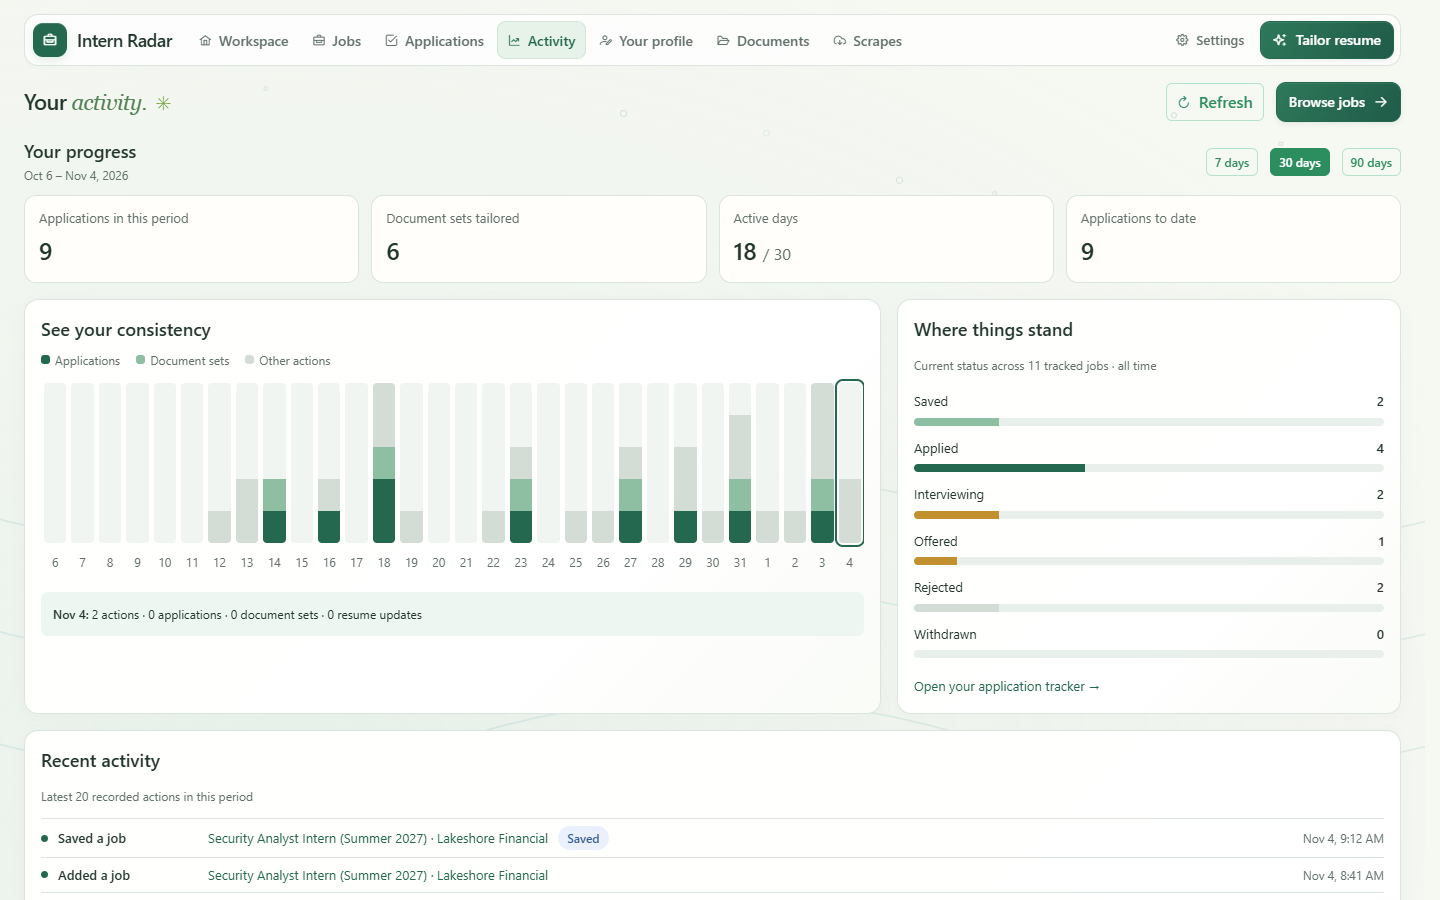
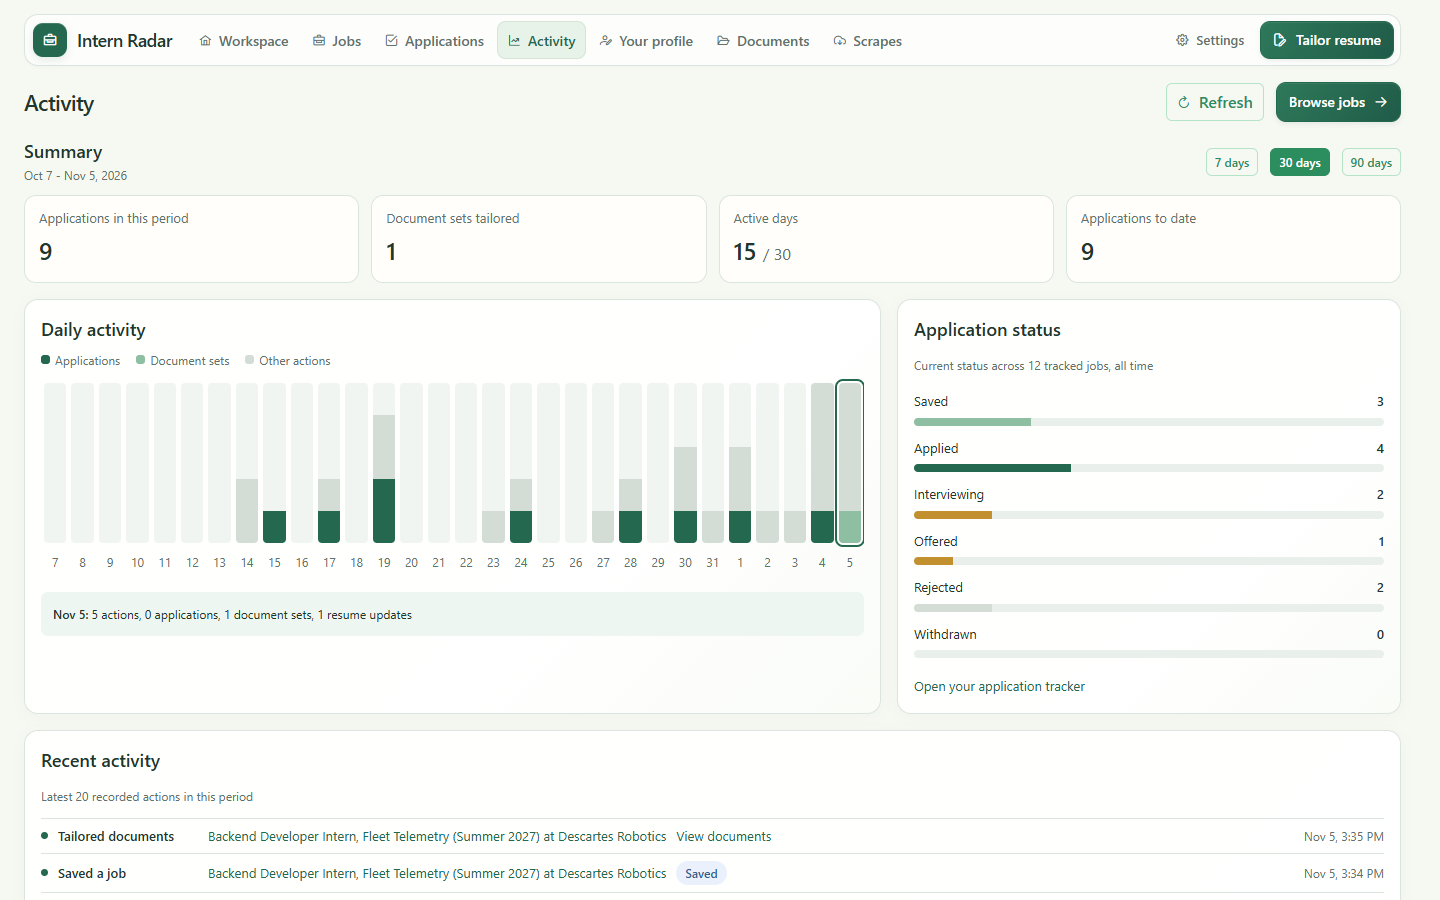
screenshots: smaller and refreshed

diff --git a/backend/src/job_backend/scrape/workday/models.py b/backend/src/job_backend/scrape/workday/models.py
@@ -1,0 +1,104 @@
+from dataclasses import dataclass, field
+
+from pydantic import BaseModel, ConfigDict, Field, HttpUrl, JsonValue, TypeAdapter, field_validator
+
+
+@dataclass(frozen=True)
+class WorkdayBoard:
+    api_url: str
+    careers_url: str
+
+
+@dataclass
+class WorkdayListingBudget:
+    pages: int = 0
+    bytes: int = 0
+    malformed: int = 0
+    repeated: int = 0
+    missing: int = 0
+    facets: JsonValue = None
+    scope: dict[str, JsonValue] = field(default_factory=dict[str, JsonValue])
+
+
+class WorkdayFacetValue(BaseModel):
+    model_config = ConfigDict(strict=True, extra="ignore")
+
+    id: str = Field(min_length=1)
+    count: int = Field(ge=0)
+
+
+class WorkdayFacet(BaseModel):
+    model_config = ConfigDict(strict=True, extra="ignore")
+
+    facetParameter: str = Field(min_length=1)
+    values: list[WorkdayFacetValue]
+
+
+class WorkdayListing(BaseModel):
+    model_config = ConfigDict(strict=True, extra="ignore")
+
+    title: str | None = Field(default=None, min_length=1)
+    externalPath: str = Field(min_length=1)
+
+    @field_validator("title")
+    @classmethod
+    def validate_title(cls, value: str | None) -> str | None:
+        if value is not None and not value.strip():
+            raise ValueError("Workday title must not be blank")
+        return value
+
+    @field_validator("externalPath")
+    @classmethod
+    def validate_external_path(cls, value: str) -> str:
+        if (
+            not value.startswith("/job/")
+            or any(character in value for character in ("?", "#", "\\", "%"))
+            or any(segment in {"", ".", ".."} for segment in value[1:].split("/"))
+        ):
+            raise ValueError("Workday externalPath must be an unambiguous /job/ path")
+        return value
+
+
+class WorkdayListingPage(BaseModel):
+    model_config = ConfigDict(strict=True, extra="ignore")
+
+    total: int = Field(ge=0)
+    jobPostings: list[dict[str, JsonValue]]
+
+
+class WorkdayPostingInfo(BaseModel):
+    model_config = ConfigDict(strict=True, extra="ignore")
+
+    id: str = Field(min_length=1)
+    title: str = Field(min_length=1)
+    jobDescription: str = Field(min_length=1)
+    jobReqId: str = Field(min_length=1)
+    externalUrl: str | None = None
+
+    @field_validator("id", "title", "jobDescription", "jobReqId")
+    @classmethod
+    def validate_required_text(cls, value: str) -> str:
+        if not value.strip():
+            raise ValueError("Workday posting fields must not be blank")
+        return value
+
+    @field_validator("externalUrl")
+    @classmethod
+    def validate_external_url(cls, value: str | None) -> str | None:
+        if value is not None:
+            TypeAdapter(HttpUrl).validate_python(value)
+        return value
+
+
+class WorkdayPostingDetail(BaseModel):
+    model_config = ConfigDict(strict=True, extra="ignore")
+
+    jobPostingInfo: WorkdayPostingInfo
+
+
+class WorkdayRecord(BaseModel):
+    model_config = ConfigDict(strict=True, extra="forbid")
+
+    listing: dict[str, JsonValue]
+    detail: dict[str, JsonValue] | None = None
+    student_facet: str | None = None

diff --git a/backend/tests/scrape/test_targeted_discovery.py b/backend/tests/scrape/test_targeted_discovery.py
@@ -1,0 +1,65 @@
+import json
+
+import pytest
+from pydantic import JsonValue
+
+from job_backend.persistence.database import Database
+from job_backend.scrape.pipeline.models import (
+    FetchResult,
+    RawDocument,
+)
+from job_backend.scrape.pipeline.pipeline import scrape_source
+from job_backend.scrape.pipeline.targeting import document_is_candidate
+from tests.helpers import ADAPTER, StubNormalizer, listing, payload
+
+
+def _provider_document(provider: str, title: str, location: str) -> RawDocument:
+    record: dict[str, JsonValue] = {"title": title, "locations": [location]}
+    origin = "https://example.com/feed"
+    if provider == "lever":
+        origin = "https://api.lever.co/v0/postings/example"
+        record = {"text": title, "categories": {"location": location}}
+    elif provider == "greenhouse":
+        record = {"title": title, "location": {"name": location}, "content": "Full description"}
+    elif provider == "ashby":
+        record = {"title": title, "location": location, "descriptionPlain": "Full description"}
+    elif provider == "workable":
+        origin = "https://www.workable.com/api/accounts/example"
+        record = {"title": title, "locations": [{"country": location}]}
+    elif provider == "hibob":
+        origin = "https://example.careers.hibob.com/api/public/jobs"
+        record = {"title": title, "site": location}
+    elif provider == "workday":
+        origin = "https://example.wd5.myworkdayjobs.com/wday/cxs/example/Careers/jobs"
+        record = {"detail": {"jobPostingInfo": {"title": title, "location": location}}}
+    elif provider == "eightfold":
+        origin = "https://careers.qualcomm.com/api/pcsx/position_details"
+        record = {"detail": {"data": {"name": title, "locations": [location]}}}
+    return RawDocument(
+        content=json.dumps({"company_name": "Example", "job": record}),
+        source_url=origin,
+        media_type="application/json",
+    )
+
+
+@pytest.mark.parametrize("provider", ["lever", "greenhouse"])
+@pytest.mark.parametrize(
+    ("title", "location", "expected"),
+    [("Software Intern", "Canada", True), ("Software Intern", "United States", False)],
+)
+def test_projections_share_scope(provider: str, title: str, location: str, expected: bool) -> None:
+    document = _provider_document(provider, title, location)
+    original = document.content
+    assert document_is_candidate(document) is expected
+    assert document.content == original
+
+
+def test_unrelated_docs_skip_budget(engine: Database) -> None:
+    records = [listing(str(index), title="Senior Software Engineer") for index in range(120)]
+    records.extend([listing("target-1"), listing("target-2")])
+    normalizer = StubNormalizer()
+    run = scrape_source(
+        engine, ADAPTER, lambda _etag: FetchResult(payload(*records), None), normalizer=normalizer
+    )
+    assert run.fetched == 122 and run.items_total == 2
+    assert run.created == run.items_done == normalizer.calls == 2

diff --git a/backend/src/job_backend/scrape/health/__main__.py b/backend/src/job_backend/scrape/health/__main__.py
@@ -1,0 +1,22 @@
+import time
+
+from job_backend.persistence.database import default_database_path, make_engine
+from job_backend.persistence.session import Session
+from job_backend.scrape.health.regressions import scrape_health
+from job_backend.scrape.worker.settings import load_settings
+from job_backend.scrape.worker.sources import scheduled_sources
+
+
+def main() -> int:
+    engine = make_engine(default_database_path())
+    try:
+        with Session(engine, read_only=True) as session:
+            health = scrape_health(session, scheduled_sources(load_settings()), time.time())
+    finally:
+        engine.dispose()
+    print(health.model_dump_json(indent=2))
+    return 1 if health.regressions else 0
+
+
+if __name__ == "__main__":
+    raise SystemExit(main())
